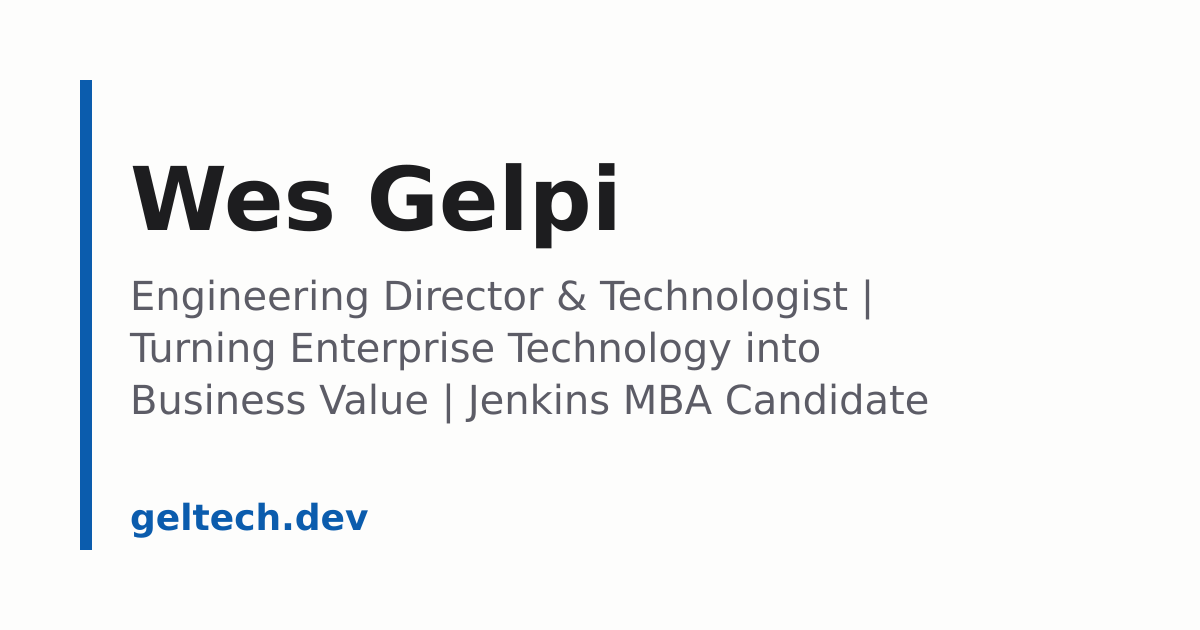
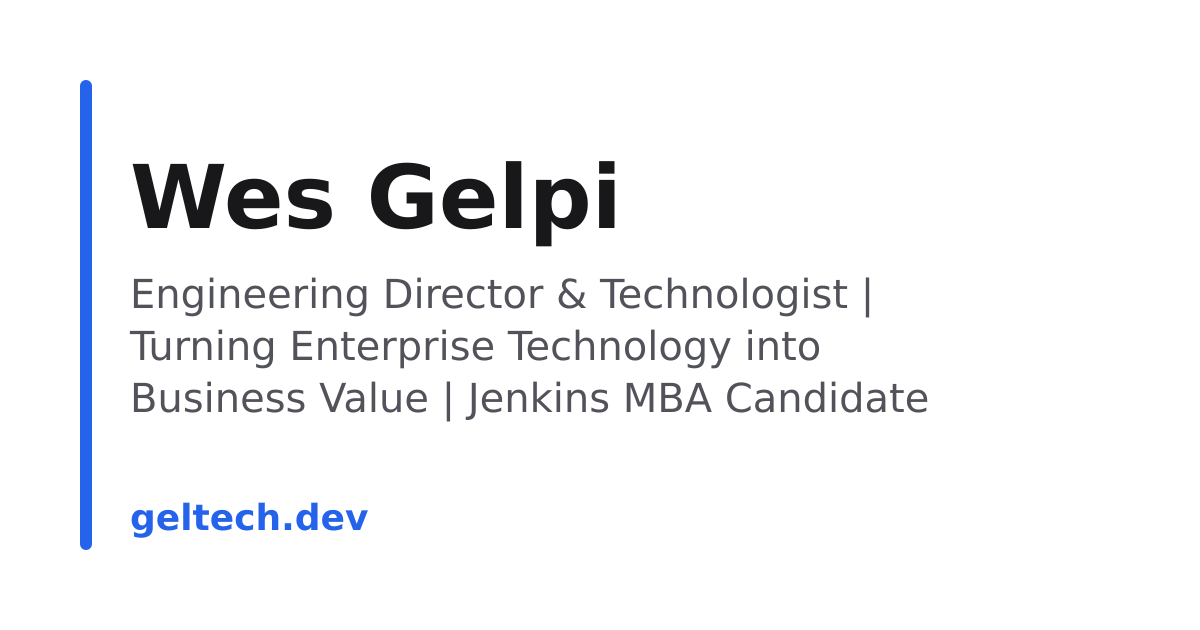
feat: generated share image per post
/og/blog/<slug>.png is rendered at build time with sharp (already installed by
Astro) from the same SVG template as og-default, now in src/lib/og.ts and in the
v0.6 palette. Title, then the description in the lines left, then name and domain.
A post's heroImage still wins. Drafts get no image.

diff --git a/src/lib/og.ts b/src/lib/og.ts
@@ -1,0 +1,42 @@
+// Share cards (1200×630) as SVG; callers render them to PNG with sharp. Colours match the light theme in global.css.
+
+/** Greedy word wrap to `width` chars; past `maxLines` the last line ends with "…". */
+export function wrap(text: string, width: number, maxLines: number): string[] {
+  if (maxLines <= 0) return [];
+  const lines: string[] = [];
+  for (const word of text.split(/\s+/).filter(Boolean)) {
+    const last = lines.at(-1);
+    if (last !== undefined && (last + ' ' + word).length <= width) lines[lines.length - 1] = last + ' ' + word;
+    else lines.push(word);
+  }
+  if (lines.length <= maxLines) return lines;
+  const kept = lines.slice(0, maxLines);
+  kept[maxLines - 1] = kept[maxLines - 1]!.slice(0, width - 1) + '…';
+  return kept;
+}
+
+const esc = (s: string) => s.replace(/&/g, '&amp;').replace(/</g, '&lt;').replace(/>/g, '&gt;');
+const FONT = 'DejaVu Sans, Helvetica, Arial, sans-serif';
+
+/** Big bold heading lines, optional muted body lines under them, and an accent footer. */
+export function ogSvg({ heading, headingSize, body = [], footer }: { heading: string[]; headingSize: number; body?: string[]; footer: string }): string {
+  const lines = (ls: string[], lineHeight: number) =>
+    ls.map((l, i) => `<tspan x="130" dy="${i ? lineHeight : 0}">${esc(l)}</tspan>`).join('');
+  const headingY = 140 + headingSize;
+  const bodyY = headingY + (heading.length - 1) * Math.round(headingSize * 1.15) + 80;
+  return `<svg xmlns="http://www.w3.org/2000/svg" width="1200" height="630">
+  <rect width="1200" height="630" fill="#ffffff"/>
+  <rect x="80" y="80" width="12" height="470" rx="6" fill="#2563eb"/>
+  <text x="130" y="${headingY}" font-family="${FONT}" font-size="${headingSize}" font-weight="700" fill="#18181b">${lines(heading, Math.round(headingSize * 1.15))}</text>
+  ${body.length ? `<text x="130" y="${bodyY}" font-family="${FONT}" font-size="40" fill="#52525b">${lines(body, 52)}</text>` : ''}
+  <text x="130" y="530" font-family="${FONT}" font-size="36" font-weight="700" fill="#2563eb">${esc(footer)}</text>
+</svg>`;
+}
+
+/** A post's card: up to 4 lines of title (~25 chars of 60px bold fit the 990px column), the description in
+ *  whatever lines are left, and "Name · domain".
+ *  shortcut: wrapping counts characters, so an all-caps title or a 25+ char word can overflow; measure glyphs if one does. */
+export function postOgSvg(title: string, description: string, name: string, domain: string): string {
+  const heading = wrap(title, 25, 4);
+  return ogSvg({ heading, headingSize: 60, body: wrap(description, 42, Math.min(3, 4 - heading.length)), footer: `${name} · ${domain}` });
+}

diff --git a/scripts/og-default.ts b/scripts/og-default.ts
@@ -3,21 +3,8 @@ import sharp from 'sharp';
 import { site } from '../src/site.config.ts';
 import { configProblems } from '../src/lib/config-guard.ts';
 import { employersFromCv } from './verify-dist.ts';
+import { ogSvg, wrap } from '../src/lib/og.ts';
 import { readFileSync } from 'node:fs';
-
-/** Greedy word wrap to `width` chars; past `maxLines` the last line ends with "…". */
-export function wrap(text: string, width: number, maxLines: number): string[] {
-  const lines: string[] = [];
-  for (const word of text.split(/\s+/).filter(Boolean)) {
-    const last = lines.at(-1);
-    if (last !== undefined && (last + ' ' + word).length <= width) lines[lines.length - 1] = last + ' ' + word;
-    else lines.push(word);
-  }
-  if (lines.length <= maxLines) return lines;
-  const kept = lines.slice(0, maxLines);
-  kept[maxLines - 1] = kept[maxLines - 1]!.slice(0, width - 1) + '…';
-  return kept;
-}
 
 if (import.meta.main) {
   const problems = configProblems(site, employersFromCv(readFileSync('src/content/pages/cv.md', 'utf8')));
@@ -26,20 +13,8 @@ if (import.meta.main) {
     process.exit(1);
   }
 
-  const esc = (s: string) => s.replace(/&/g, '&amp;').replace(/</g, '&lt;').replace(/>/g, '&gt;');
-  const font = 'DejaVu Sans, Helvetica, Arial, sans-serif';
-  // ~42 chars of 40px text fit in the 1000px column; 3 lines fit above the domain.
-  const tagline = wrap(site.tagline, 42, 3)
-    .map((line, i) => `<tspan x="130" dy="${i ? 52 : 0}">${esc(line)}</tspan>`)
-    .join('');
-  // Colours match the light theme tokens in global.css.
-  const svg = `<svg xmlns="http://www.w3.org/2000/svg" width="1200" height="630">
-  <rect width="1200" height="630" fill="#fdfdfc"/>
-  <rect x="80" y="80" width="12" height="470" fill="#0b5cad"/>
-  <text x="130" y="230" font-family="${font}" font-size="88" font-weight="700" fill="#1d1d1f">${esc(site.name)}</text>
-  <text x="130" y="310" font-family="${font}" font-size="40" fill="#5c5c66">${tagline}</text>
-  <text x="130" y="530" font-family="${font}" font-size="36" font-weight="700" fill="#0b5cad">geltech.dev</text>
-</svg>`;
+  // ~42 chars of 40px text fit in the 990px column; 3 lines fit above the domain.
+  const svg = ogSvg({ heading: [site.name], headingSize: 88, body: wrap(site.tagline, 42, 3), footer: new URL(site.url).host });
 
   await sharp(Buffer.from(svg)).png().toFile('public/og-default.png');
   console.log('Wrote public/og-default.png');

diff --git a/src/lib/og.test.ts b/src/lib/og.test.ts
@@ -1,0 +1,29 @@
+import { test } from 'node:test';
+import assert from 'node:assert/strict';
+import { wrap, ogSvg, postOgSvg } from './og.ts';
+
+test('wrap keeps every line within the width and loses no words', () => {
+  const text = 'Engineering Director & Technologist | Turning Enterprise Technology into Business Value | Jenkins MBA Candidate';
+  const lines = wrap(text, 42, 3);
+  assert.ok(lines.every((l) => l.length <= 42), lines.join('\n'));
+  assert.equal(lines.join(' '), text);
+});
+
+test('wrap ends with an ellipsis when the text needs more lines than allowed', () => {
+  const lines = wrap('one two three four five six', 9, 2);
+  assert.deepEqual(lines, ['one two', 'three…']);
+});
+
+test('ogSvg escapes text and keeps the default card layout', () => {
+  const svg = ogSvg({ heading: ['A & B'], headingSize: 88, body: ['<x>'], footer: 'geltech.dev' });
+  assert.match(svg, /y="228"[^>]*>.*A &amp; B/);
+  assert.match(svg, /y="308"[^>]*>.*&lt;x&gt;/);
+});
+
+test('postOgSvg: title up to 4 lines, description fills the lines left', () => {
+  const long = 'Why every data platform team eventually rebuilds its ingestion layer from scratch';
+  assert.equal(postOgSvg(long, 'desc', 'Name', 'geltech.dev').match(/<tspan/g)?.length, 4);
+  const svg = postOgSvg('Short title', long, 'Name', 'geltech.dev');
+  assert.equal(svg.match(/<tspan/g)?.length, 1 + 2);
+  assert.match(svg, /Name · geltech\.dev/);
+});

diff --git a/src/lib/person.ts b/src/lib/person.ts
@@ -12,7 +12,7 @@ export const personJsonLd = (): object => ({
 
 // FR-13: BlogPosting on posts; the author is the same generic Person.
 export const blogPostingJsonLd = (post: {
-  title: string; description: string; pubDate: Date; updatedDate?: Date; tags: string[]; heroImage?: string; url: string;
+  title: string; description: string; pubDate: Date; updatedDate?: Date; tags: string[]; image: string; url: string;
 }): object => ({
   '@context': 'https://schema.org',
   '@type': 'BlogPosting',
@@ -22,7 +22,7 @@ export const blogPostingJsonLd = (post: {
   dateModified: (post.updatedDate ?? post.pubDate).toISOString(),
   url: post.url,
   mainEntityOfPage: post.url,
-  image: new URL(post.heroImage ?? '/og-default.png', site.url).href,
+  image: new URL(post.image, site.url).href,
   keywords: post.tags,
   author: { '@type': 'Person', name: site.name, url: site.url },
 });

diff --git a/src/pages/og/blog/[slug].png.ts b/src/pages/og/blog/[slug].png.ts
@@ -1,0 +1,14 @@
+// Per-post share image, rendered at build time (no runtime code). Published posts only, so drafts get none.
+import type { APIRoute, GetStaticPaths } from 'astro';
+import sharp from 'sharp';
+import { site } from '../../../site.config';
+import { getPublishedPosts } from '../../../lib/content';
+import { postOgSvg } from '../../../lib/og';
+
+export const getStaticPaths = (async () =>
+  (await getPublishedPosts()).map((post) => ({ params: { slug: post.id }, props: { title: post.data.title, description: post.data.description } }))) satisfies GetStaticPaths;
+
+export const GET: APIRoute = async ({ props }) => {
+  const png = await sharp(Buffer.from(postOgSvg(props.title, props.description, site.name, new URL(site.url).host))).png().toBuffer();
+  return new Response(new Uint8Array(png), { headers: { 'Content-Type': 'image/png' } });
+};

diff --git a/README.md b/README.md
@@ -79,9 +79,9 @@ src/
     blog/               # posts (.md, images alongside)
     projects/           # one entry per app or project
     pages/cv.md         # the CV shown on /about/ (the only place employers are named)
-  pages/                # routes: /, /blog, /blog/[slug], /blog/tags/[tag], /about, /projects, rss.xml, 404
+  pages/                # routes: /, /blog, /blog/[slug], /blog/tags/[tag], /og/blog/[slug].png (share cards), /about, /projects, rss.xml, 404
   layouts/  components/ # BaseLayout, BaseHead (meta, OG, JSON-LD), Nav, theme switch, post and project cards
-  lib/                  # draft filter, reading time, config guard, JSON-LD
+  lib/                  # draft filter, reading time, config guard, JSON-LD, share-card SVG
   scripts/theme-init.js # the light/dark switch, inlined into every page's <head>
   styles/global.css
 public/                 # copied as-is (robots.txt, _headers security headers, og-default.png)
